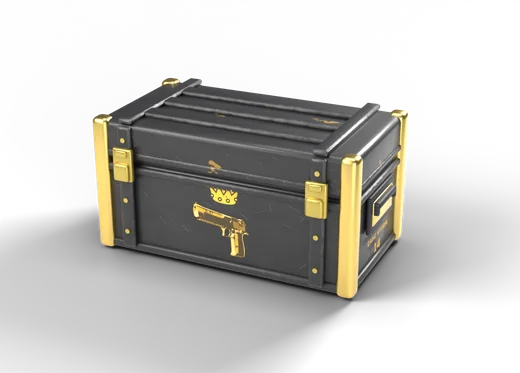
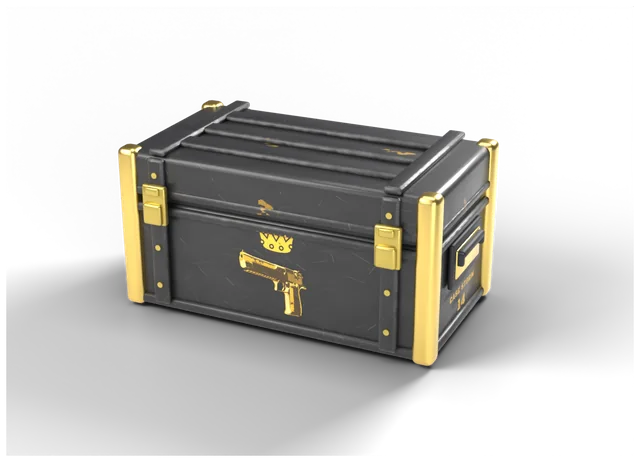
Case Storm: крупные карточки кейсов без обрезанной тени, удача игрока в админке
Claude-Session: https://claude.ai/code/session_01U1EceAjcHzodPyFg5tstiy

diff --git a/case-storm/index.html b/case-storm/index.html
@@ -928,6 +928,19 @@ html{background:#3e4550}
 .band .cc-info{background:#2d5a4b}
 .top .nav a.on{color:#5cc8ff}
 .page-head h1{color:#fff;text-shadow:0 3px 16px rgba(0,0,0,.35)}
+/* ===== v8: bigger case cards ===== */
+.case-grid{grid-template-columns:repeat(auto-fill,minmax(250px,1fr));gap:14px}
+.cc-img{height:205px;display:flex;align-items:center;justify-content:center}
+.cc-img img{width:100%;height:100%;object-fit:contain}
+.cc-img img[src$=".webp"]{padding:4px 2px 0;transform-origin:50% 60%}
+.cc-info{padding:12px 16px 14px}
+.cc-info b{font-size:17px}
+.cc-price{font-size:20px}
+.tag{font-size:14px;padding:4px 10px}
+.v-cases{max-width:1360px}
+@media (max-width:600px){.case-grid{grid-template-columns:repeat(2,minmax(0,1fr));gap:8px}.cc-img{height:130px}.cc-info{padding:9px 10px 10px}.cc-info b{font-size:14px}.cc-price{font-size:16px}}
+.lk-seg{display:grid;grid-template-columns:repeat(5,1fr);width:100%;margin:10px 0}.lk-seg button{height:auto;padding:8px 4px;display:flex;flex-direction:column;align-items:center;gap:2px;font-size:12px}.lk-seg small{font-size:11px;color:var(--mut)}.adm-p em{font-style:normal;font-size:11px}.adm-card .btn-green{width:100%;margin-top:12px}
+.cc-info .cc-price{font-size:19px}.cc-info .cc-price s{font-size:14px}.case-grid{grid-template-columns:repeat(auto-fill,minmax(218px,1fr))}@media (max-width:600px){.cc-info .cc-price{font-size:15px}}
 
 </style>
 </head>
@@ -4285,6 +4298,16 @@ const PID_ABC = '0123456789ABCDEFGHJKMNPQRSTVWXYZ';
 function makePid(cid) { let a = hashStr(cid), b = hashStr(cid + '#storm'), out = ''; for (let i = 0; i < 8; i++) { const v = i < 4 ? a : b; out += PID_ABC[(v >>> ((i % 4) * 5)) & 31]; } return 'CS-' + out; }
 if (!S.pid) S.pid = makePid(S.cid);
 if (!S.giftsGot) S.giftsGot = {};
+if (!(S.luck > 0)) S.luck = 1;
+// admin-set luck factor: >1 shifts drops towards expensive items, <1 towards cheap ones (battles stay fair)
+function luckyRoll(cs) {
+  const L = S.luck || 1; if (Math.abs(L - 1) < 0.01) return rollCase(cs);
+  const a = Math.log(L) / Math.log(4); const ref = cs.price || 1;
+  let tot = 0; const pool = cs.pool.map(p => { const w = p.p * Math.pow(Math.max(0.01, p.ev) / ref, a); tot += w; return { ...p, w }; });
+  pool.forEach(p => p.p = p.w / tot);
+  return rollCase({ ...cs, pool });
+}
+const luckChance = ch => Math.min(0.97, ch * (S.luck || 1));
 S.loan = 0; delete S.ach.loan;
 S.inv = S.inv.filter(it => SKIN[it.s]); if (S.best && !SKIN[S.best.s]) S.best = null;
 if (S.rates) setRates(S.rates);
@@ -4468,6 +4491,7 @@ function netConnect() {
     renderOnline(); renderChat(); renderFeed(); renderLobbies();
     if (S.myLobby && !NET.lobbies.some(l => l.id === S.myLobby.id)) { setBal(S.bal + S.myLobby.cost); toast(`Лобби закрыто, ${moneyTxt(S.myLobby.cost)} возвращено`); S.myLobby = null; save(); }
   });
+  es.addEventListener('luck', e => { try { const d = JSON.parse(e.data); S.luck = +d.f || 1; save(); } catch (x) { } });
   es.addEventListener('gift', e => {
     const g = JSON.parse(e.data); post('ack', { pid: S.pid, gid: g.id });
     if (S.giftsGot[g.id]) return; S.giftsGot[g.id] = Date.now(); setBal(S.bal + g.usd); save();
@@ -4704,7 +4728,7 @@ async function openCase(cs, n, demo, free = false) {
   const price = free ? 0 : round2(casePrice(cs) * n);
   if (!demo && !free && !spend(price)) return;
   setBusy(true);
-  const won = []; for (let i = 0; i < n; i++) won.push(rollCase(cs));
+  const won = []; for (let i = 0; i < n; i++) won.push(luckyRoll(cs));
   const best = won.slice().sort((a, b) => SKIN[b.s].rarity - SKIN[a.s].rarity || b.p - a.p)[0];
   const bestR = SKIN[best.s].rarity; const fast = S.fast;
   const reels = $('#reels'); reels.className = 'reels n' + n;
@@ -4969,7 +4993,7 @@ async function doUpgrade() {
   setBusy(true); $('#upBtn').disabled = true;
   if (UP.extra) setBal(S.bal - UP.extra);
   removeItems(uids); addXp(s * 0.5); S.upg++; quest('upg');
-  const win = Math.random() < ch;
+  const win = Math.random() < luckChance(ch);
   const startTop = UP.spin.side === 'under' ? Math.PI - ch * Math.PI : -ch * Math.PI; const span = ch * Math.PI * 2;
   let stopAt = win ? startTop + span * rand(0.06, 0.94) : startTop + span + (Math.PI * 2 - span) * rand(0.03, 0.97);
   if (!win && Math.random() < 0.35) stopAt = startTop + span + rand(0.02, 0.12);
@@ -5032,7 +5056,7 @@ async function doContract() {
   if (busy || CON.sel.length < 3) return;
   const s = conSum(); const uids = CON.sel.slice();
   const sigma = 0.6, mu = Math.log(0.95) - sigma * sigma / 2;
-  const mult = Math.min(4, Math.max(0.25, Math.exp(mu + sigma * gauss())));
+  const mult = Math.min(4, Math.max(0.25, Math.exp(mu + sigma * gauss()) * Math.sqrt(S.luck || 1)));
   const vr = variantNear(s * mult, s * 0.25);
   setBusy(true); $('#conSlots').classList.add('merge'); sfx.whoosh(); sfx.rumble();
   await sleep(S.fast ? 600 : 1300);
@@ -5231,6 +5255,11 @@ views.admin = v => {
       <label class="set-row col"><span>Сумма, ${c.sym}</span><input class="inp" id="adSum" type="number" min="0" step="any" placeholder="например, 500"></label>
       <label class="set-row col"><span>Сообщение игроку (необязательно)</span><input class="inp" id="adNote" maxlength="80" placeholder="Победитель конкурса!"></label>
       <button class="btn btn-green" id="adGo">${ico('gift')} Выдать</button><div class="adm-res" id="adRes"></div></section>
+    <section class="adm-card"><h2>${ico('dice')} Удача игрока</h2>
+      <label class="set-row col"><span>ID игрока</span><input class="inp" id="lkPid" placeholder="CS-XXXXXXXX" maxlength="11"></label>
+      <div class="seg lk-seg" id="lkSeg">${[[0.25, 'Сильно хуже'], [0.5, 'Хуже'], [1, 'Обычно'], [2, 'Лучше'], [4, 'Сильно лучше']].map(([f, t]) => `<button data-f="${f}" class="${f === 1 ? 'on' : ''}">${t}<small>×${f}</small></button>`).join('')}</div>
+      <small class="mut">Влияет на открытие кейсов, апгрейды и контракты этого игрока. Батлы остаются честными. Сбрасывается кнопкой «Обычно».</small>
+      <button class="btn btn-green" id="lkGo">${ico('dice')} Применить</button><div class="adm-res" id="lkRes"></div></section>
     <section class="adm-card wide"><h2>${ico('online')} Сейчас на сайте</h2><div class="adm-list" id="adList"><span class="mut">Введи ключ и нажми «Обновить»</span></div></section>
   </div>`;
   const key = () => { S.adminKey = $('#adKey').value.trim(); save(); return S.adminKey; };
@@ -5238,10 +5267,18 @@ views.admin = v => {
     const [code, d] = await post('admin/online', { key: key() });
     if (code !== 200) { $('#adList').innerHTML = `<span class="neg">${esc(d.error || 'Ошибка')}</span>`; return; }
     $('#adState').textContent = `Сервер на связи · ожидают доставки: ${d.pending}`;
-    $('#adList').innerHTML = d.players.length ? d.players.map(p => `<button class="adm-p" data-pid="${esc(p.pid)}"><b>${esc(p.name)}</b><span>${esc(p.pid)}</span></button>`).join('') : '<span class="mut">Никого нет (игроки со старой версией сайта без ID тоже не видны)</span>';
+    $('#adList').innerHTML = d.players.length ? d.players.map(p => `<button class="adm-p" data-pid="${esc(p.pid)}"><b>${esc(p.name)}</b><span>${esc(p.pid)}</span>${p.luck && p.luck !== 1 ? `<em class="${p.luck > 1 ? 'pos' : 'neg'}">удача ×${p.luck}</em>` : ''}</button>`).join('') : '<span class="mut">Никого нет (игроки со старой версией сайта без ID тоже не видны)</span>';
   };
   $('#adLoad').onclick = load;
-  $('#adList').addEventListener('click', e => { const b = e.target.closest('[data-pid]'); if (b) { $('#adPid').value = b.dataset.pid; sfx.click(); } });
+  $('#adList').addEventListener('click', e => { const b = e.target.closest('[data-pid]'); if (b) { $('#adPid').value = b.dataset.pid; $('#lkPid').value = b.dataset.pid; sfx.click(); } });
+  let lkF = 1;
+  $('#lkSeg').addEventListener('click', e => { const b = e.target.closest('[data-f]'); if (!b) return; lkF = +b.dataset.f; $$('#lkSeg button').forEach(x => x.classList.toggle('on', x === b)); sfx.tab(); });
+  $('#lkGo').onclick = async () => {
+    const pid = $('#lkPid').value.trim().toUpperCase(); if (!/^CS-[0-9A-Z]{8}$/.test(pid)) { toast('ID должен быть вида CS-XXXXXXXX', 'err'); return; }
+    const [code, d] = await post('admin/luck', { key: key(), pid, f: lkF });
+    if (code !== 200) { $('#lkRes').innerHTML = `<span class="neg">${esc(d.error || 'Ошибка')}</span>`; sfx.error(); return; }
+    sfx.cash(); $('#lkRes').innerHTML = `<span class="pos">Удача ${esc(pid)}: ×${lkF}${d.online ? ' — применено сразу' : ' — применится, когда игрок зайдёт (пока сервер не перезапустится)'}</span>`; load();
+  };
   $('#adGo').onclick = async () => {
     const pid = $('#adPid').value.trim().toUpperCase(); const amt = +$('#adSum').value; const usd = round2(amt / c.rate);
     if (!/^CS-[0-9A-Z]{8}$/.test(pid)) { toast('ID должен быть вида CS-XXXXXXXX', 'err'); return; }

diff --git a/case-storm/server.js b/case-storm/server.js
@@ -19,6 +19,7 @@ const lastMsg = new Map();          // clientId -> ts (rate limit)
 const MODES = { '1v1': 2, '1v1v1': 3, '1v1v1v1': 4, '2v2': 4 };
 const ADMIN_KEY = process.env.ADMIN_KEY || '';
 const pending = new Map();          // pid -> [gift] (virtual balance gifts waiting for delivery)
+const luck = new Map();             // pid -> luck factor set by the admin (1 = normal)
 let badKeyAt = 0, badKeys = 0;
 const PID_RE = /^CS-[0-9A-Z]{8}$/;
 function keyOk(k) {
@@ -85,7 +86,7 @@ const api = {
     if (badKeys > 10 && Date.now() - badKeyAt < 60000) return badKey();
     if (!keyOk(b.key)) return badKey();
     const seen = new Map(); for (const c of clients.values()) if (c.pid) seen.set(c.pid, c.name || 'Игрок');
-    return [200, { players: [...seen].map(([pid, name]) => ({ pid, name })), pending: pending.size }];
+    return [200, { players: [...seen].map(([pid, name]) => ({ pid, name, luck: luck.get(pid) || 1 })), pending: pending.size }];
   },
   async 'admin/gift'(b) {
     if (badKeys > 10 && Date.now() - badKeyAt < 60000) return badKey();
@@ -96,6 +97,16 @@ const api = {
     const g = { id: crypto.randomUUID(), usd, note, t: Date.now() };
     const list = pending.get(pid) || []; list.push(g); pending.set(pid, list.slice(-20));
     const online = sendToPid(pid, 'gift', g);
+    return [200, { ok: 1, online: online > 0 }];
+  },
+  async 'admin/luck'(b) {
+    if (badKeys > 10 && Date.now() - badKeyAt < 60000) return badKey();
+    if (!keyOk(b.key)) return badKey();
+    const pid = clean(b.pid, 12).toUpperCase(); const f = Math.round((+b.f || 1) * 100) / 100;
+    if (!PID_RE.test(pid)) return [400, { error: 'ID должен быть вида CS-XXXXXXXX' }];
+    if (!(f >= 0.1 && f <= 10)) return [400, { error: 'Множитель от 0.1 до 10' }];
+    if (f === 1) luck.delete(pid); else luck.set(pid, f);
+    const online = sendToPid(pid, 'luck', { f, id: crypto.randomUUID() });
     return [200, { ok: 1, online: online > 0 }];
   },
   async leave(b) {
@@ -134,6 +145,7 @@ const server = http.createServer(async (req, res) => {
     clients.set(res, c);
     send(res, 'hello', { online: online(), chat: chat.slice(-40), feed: feed.slice(0, 30), top, lobbies: lobbyList() });
     for (const g of (pending.get(c.pid) || [])) send(res, 'gift', g);
+    if (luck.has(c.pid)) send(res, 'luck', { f: luck.get(c.pid) });
     broadcast('online', online());
     req.on('close', () => {
       clients.delete(res);
